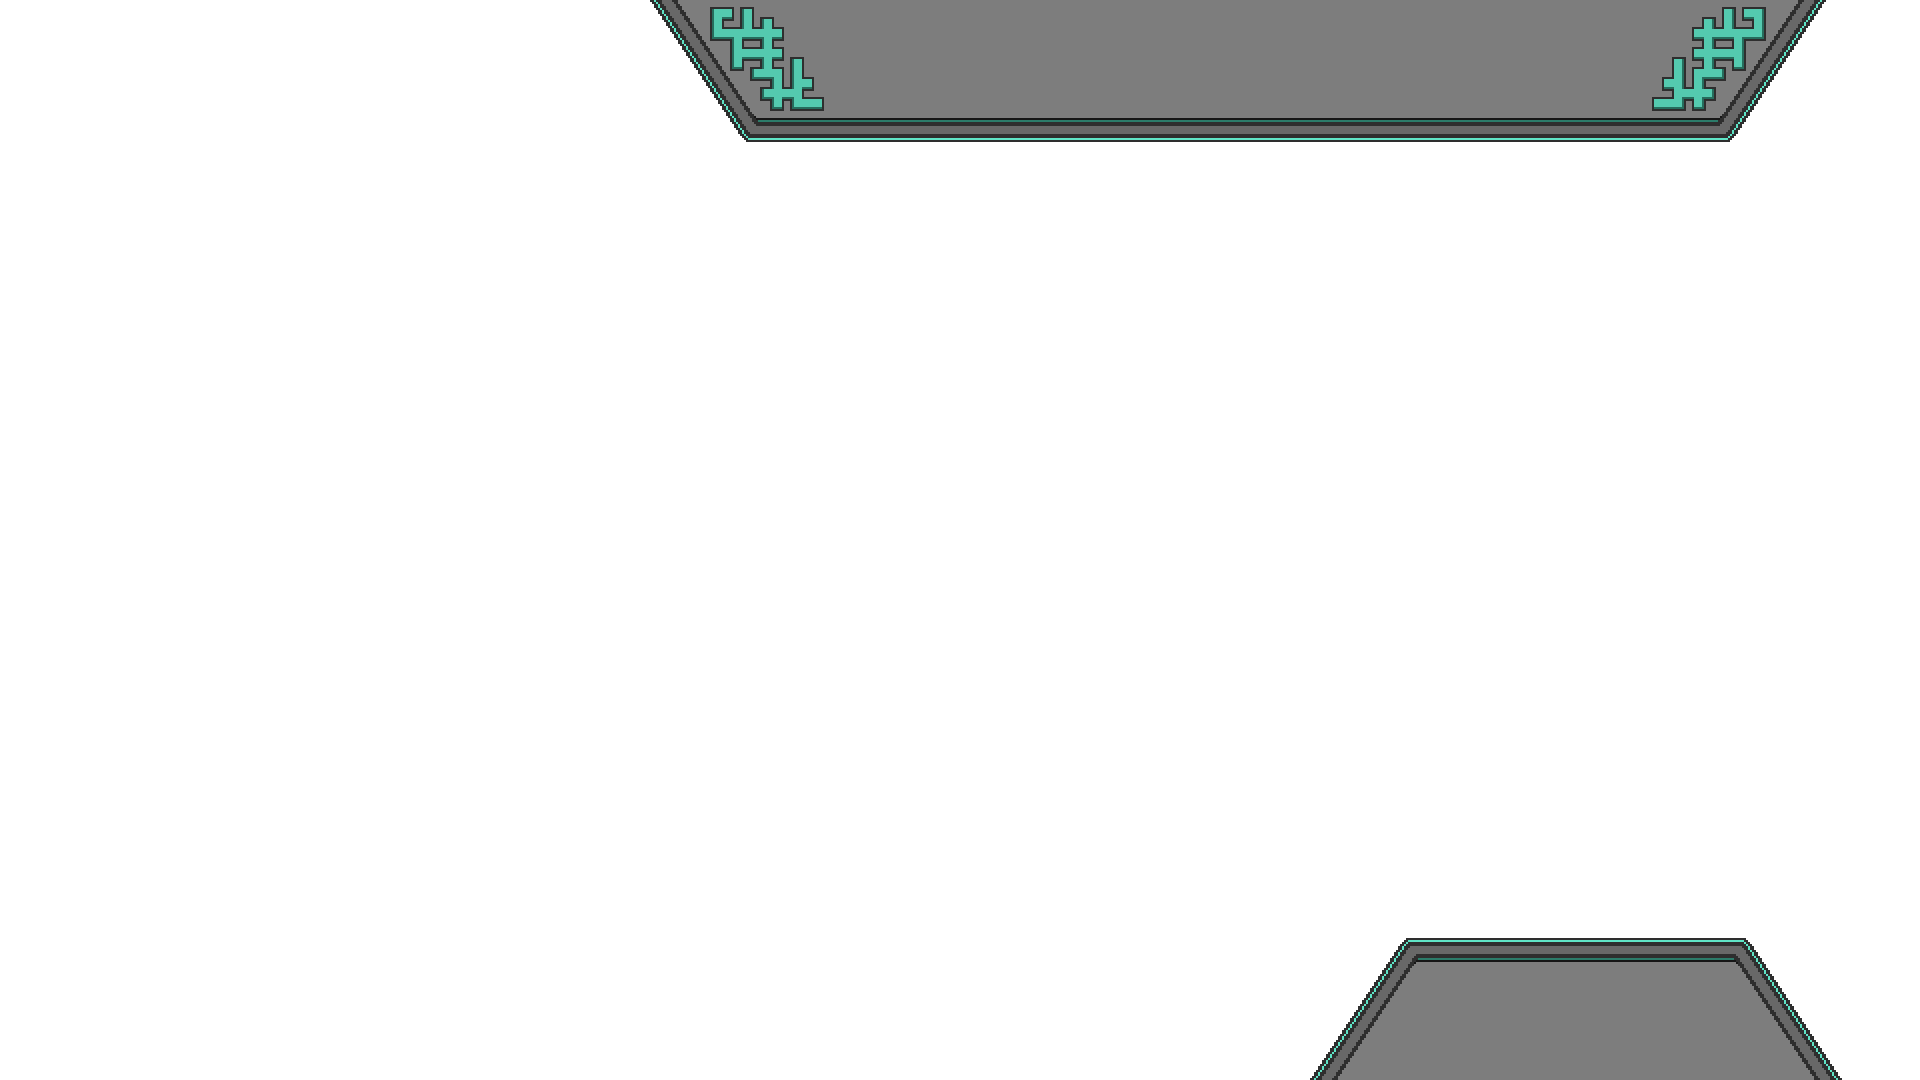
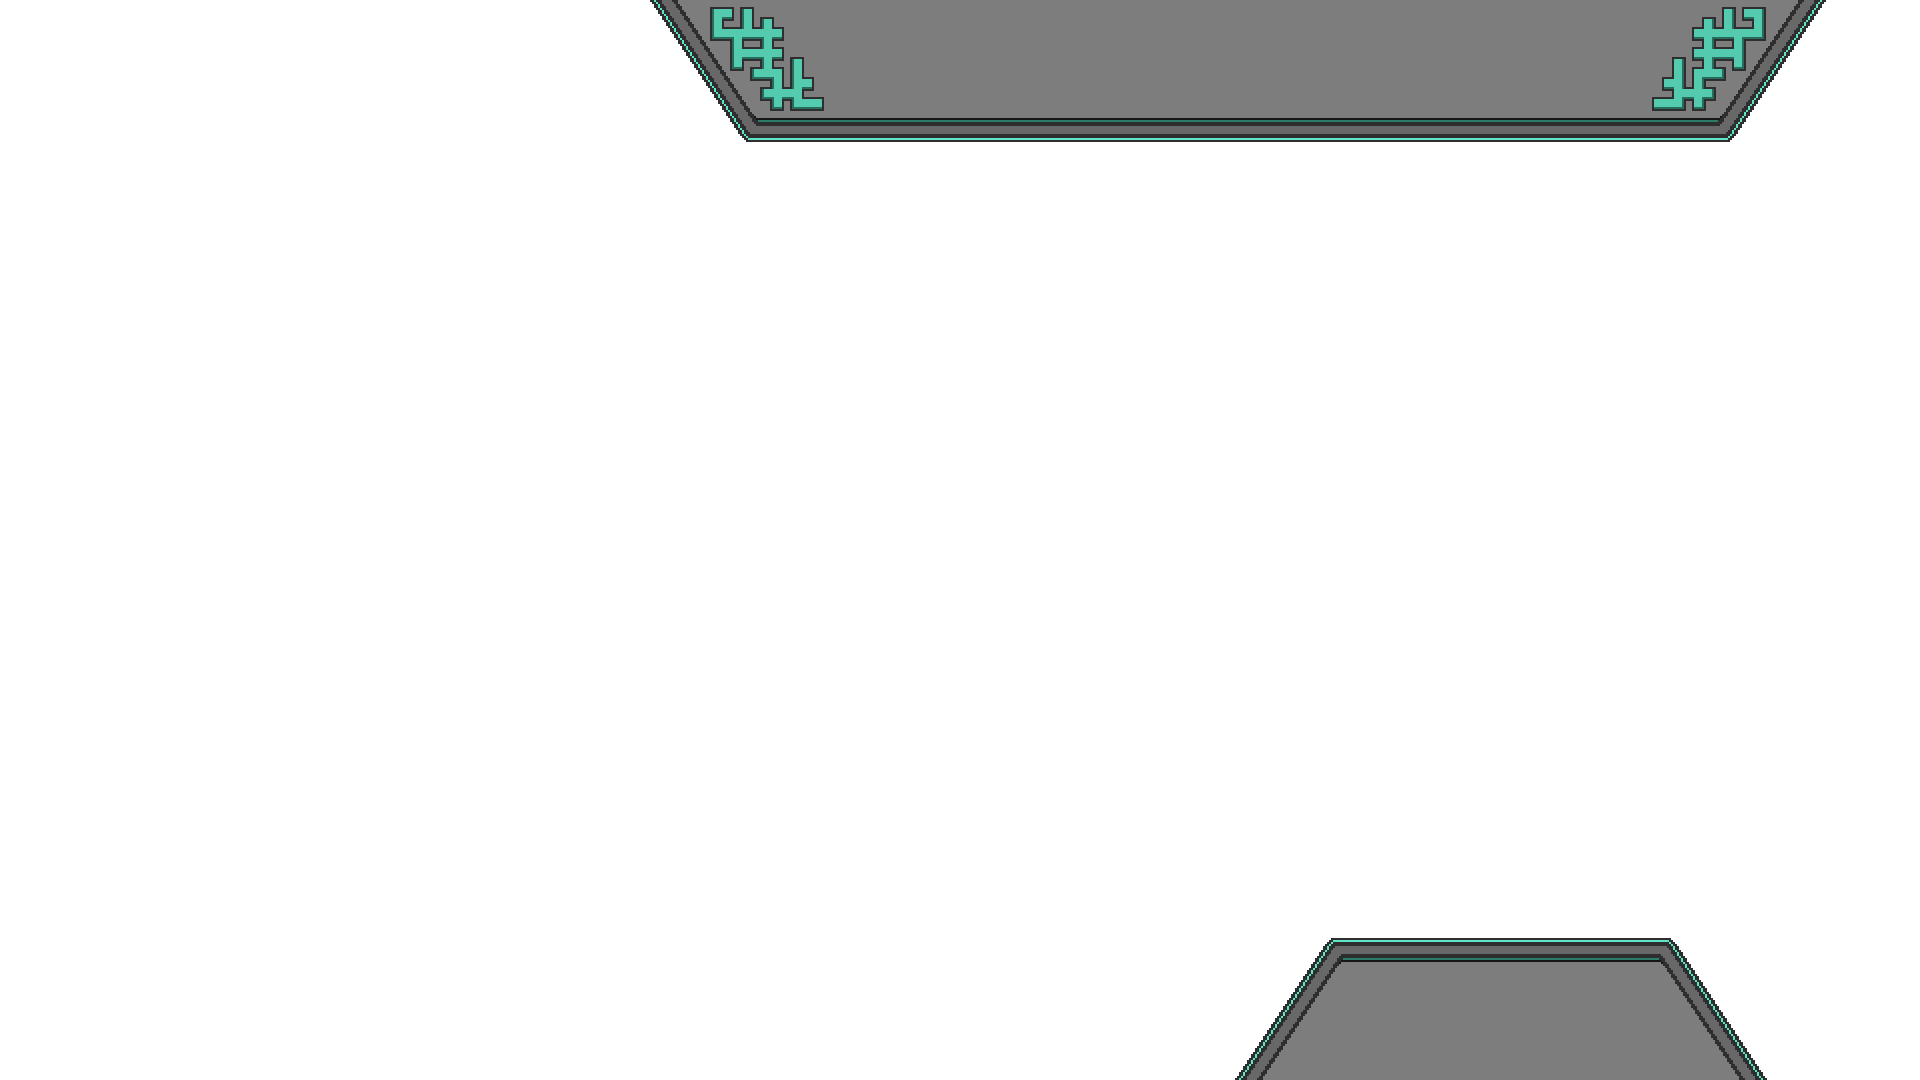
Proper GUI

Changed region(s): [[0.8438, 0.8556, 0.9688, 1.0], [0.625, 0.8556, 0.75, 1.0]]

diff --git a/Zettalith/Scripts/In Game/InGameHUD.cs b/Zettalith/Scripts/In Game/InGameHUD.cs
@@ -43,4 +43,41 @@ namespace Zettalith
             BonusHUD.Update(deltaTime);
         }
     }
+
+    class ManaBar
+    {
+        public Vector2 Position { get; set; }
+        public Renderer.SpriteScreen Bottom { get; set; }
+        public Renderer.SpriteScreen Top { get; set; }
+        public Renderer.SpriteScreen ManaBlock { get; set; }
+        public Renderer.Text ManaText { get; set; }
+        Texture2D ManaBlockTexture;
+
+        public ManaBar(Vector2 aPosition, int Colour)
+        {
+            Position = aPosition;
+
+            Texture2D tempBottomTexture = Load.Get<Texture2D>("ManaBottom");
+            Bottom = new Renderer.SpriteScreen(new Layer(MainLayer.GUI, 2), tempBottomTexture, new Rectangle((int)Position.X, (int)Position.Y - (int)(Ztuff.SizeResFactor * tempBottomTexture.Bounds.Height), (int)(Ztuff.SizeResFactor * tempBottomTexture.Bounds.Width), (int)(Ztuff.SizeResFactor * tempBottomTexture.Bounds.Height)));
+
+            Texture2D tempTopTexture = Load.Get<Texture2D>("ManaTop");
+            Top = new Renderer.SpriteScreen(new Layer(MainLayer.GUI, 2), tempTopTexture, new Rectangle((int)Position.X, (int)Position.Y, (int)(Ztuff.SizeResFactor * tempTopTexture.Bounds.Width), (int)(Ztuff.SizeResFactor * tempTopTexture.Bounds.Height)));
+
+            ManaBlockTexture = (Colour == 1 ? Load.Get<Texture2D>("Red mana") : (Colour == 2 ? Load.Get<Texture2D>("Green mana") : Load.Get<Texture2D>("Blue mana")));
+            ManaBlock = new Renderer.SpriteScreen(new Layer(MainLayer.GUI, 2), ManaBlockTexture, new Rectangle((int)Position.X, (int)Position.Y, (int)(Ztuff.SizeResFactor * ManaBlockTexture.Bounds.Width), (int)(Ztuff.SizeResFactor * ManaBlockTexture.Bounds.Height)));
+
+            ManaText = new Renderer.Text(new Layer(MainLayer.GUI, 3), Font.Default, "0", 3, 0, new Vector2(), Color.Black);
+            ManaText.Position = new Vector2(ManaBlock.Transform.X + ManaBlock.Transform.Width * 0.5f - ManaText.Font.MeasureString(ManaText.String).X * ManaText.Scale.X * 0.5f, Position.Y - Settings.GetResolution.Y * 0.02f);
+        }
+
+        public void Update(int Mana)
+        {
+            ManaBlock.Transform = new Rectangle((int)Position.X, Bottom.Transform.Y - (int)((int)(Ztuff.SizeResFactor * ManaBlockTexture.Bounds.Height) * Mana * 0.5f), (int)(Ztuff.SizeResFactor * ManaBlockTexture.Bounds.Width), (int)((int)(Ztuff.SizeResFactor * ManaBlockTexture.Bounds.Height) * Mana * 0.5f));
+
+            Top.Transform = new Rectangle((int)Position.X, ManaBlock.Transform.Y - Top.Transform.Height, (int)(Ztuff.SizeResFactor * Top.Texture.Bounds.Width), (int)(Ztuff.SizeResFactor * Top.Texture.Bounds.Height));
+
+            ManaText.String = new StringBuilder(Mana.ToString());
+            ManaText.Position = new Vector2(ManaBlock.Transform.X + ManaBlock.Transform.Width * 0.5f - ManaText.Font.MeasureString(ManaText.String).X * ManaText.Scale.X * 0.5f, Position.Y - Settings.GetResolution.Y * 0.05f);
+        }
+    }
 }

diff --git a/Zettalith/Scripts/In Game/ClientSideController.cs b/Zettalith/Scripts/In Game/ClientSideController.cs
@@ -50,8 +50,7 @@ namespace Zettalith
         InGameHUD hud;
         GUI.Collection collection, battleGUI, logisticsGUI, endGUI, perkGUI, buffGUI, bonusGUI;
 
-        Renderer.Text splash, essence;
-        Renderer.Text[] mana;
+        Renderer.Text splash;
         Renderer.Sprite ghost;
         Renderer.SpriteScreen dim, bottomPanel, topPanel, essencePanel;
 
@@ -79,13 +78,6 @@ namespace Zettalith
             string splashText = start ? "You Start" : "Opponent Starts";
             splash = new Renderer.Text(new Layer(MainLayer.GUI, 50), Font.Bold, splashText, SPLASHSIZE, 0, Settings.GetHalfResolution.ToVector2(), 0.5f * Font.Bold.MeasureString(splashText), defaultHighlightColor);
 
-            mana = new Renderer.Text[3];
-            mana[0] = new Renderer.Text(Layer.GUI, Font.Bold, "Red: " + InGameController.LocalMana.Red, 3.5f, 0, new Vector2(10, 70));
-            mana[1] = new Renderer.Text(Layer.GUI, Font.Bold, "Blue: " + InGameController.LocalMana.Blue, 3.5f, 0, new Vector2(10, 100)); 
-            mana[2] = new Renderer.Text(Layer.GUI, Font.Bold, "Green: " + InGameController.LocalMana.Green, 3.5f, 0, new Vector2(10, 130));
-            essence = new Renderer.Text(Layer.GUI, Font.Bold, "Essence: " + InGameController.LocalEssence, 3.5f, 0, new Vector2(10, 180));
-            UpdateManaGUI();
-
             collection = new GUI.Collection();
 
             Vector2 res = Settings.GetResolution.ToVector2();
@@ -98,7 +90,7 @@ namespace Zettalith
             endGUI = new GUI.Collection() { Origin = (res * 0.5f).ToPoint() };
 
             RendererController.GUI.Add(collection);
-            collection.Add(perkGUI, buffGUI, bonusGUI, battleGUI, logisticsGUI, endGUI, mana[0], mana[1], mana[2]);
+            collection.Add(perkGUI, buffGUI, bonusGUI, battleGUI, logisticsGUI, endGUI);
 
             hud = new InGameHUD(collection, perkGUI, buffGUI, bonusGUI, battleGUI, logisticsGUI, endGUI, controller, this, player);
 
@@ -182,8 +174,6 @@ namespace Zettalith
 
             SplashUpdate(deltaTime, gameState);
 
-            UpdateManaGUI();
-
             if (MoveableCamera)
             {
                 cameraMovement.Update(RendererController.Camera, Input.MousePosition, highlightedPiece == null && RendererFocus.OnArea(new Rectangle(MousePoint, Point.Zero), Layer.Default), deltaTime);
@@ -257,14 +247,6 @@ namespace Zettalith
             battleGUI.Active = false;
 
             // TODO Add logistics UI
-        }
-
-        void UpdateManaGUI()
-        {
-            mana[0].String = new StringBuilder("Red: " + InGameController.LocalMana.Red);
-            mana[1].String = new StringBuilder("Blue: " + InGameController.LocalMana.Blue);
-            mana[2].String = new StringBuilder("Green: " + InGameController.LocalMana.Green);
-            essence.String = new StringBuilder("Essence: " + InGameController.LocalEssence);
         }
 
         public void CloseSetup()

diff --git a/Zettalith/Scripts/In Game/LogisticsHUD.cs b/Zettalith/Scripts/In Game/LogisticsHUD.cs
@@ -16,9 +16,10 @@ namespace Zettalith
         List<(Renderer.SpriteScreen renderer, InGamePiece piece, RendererFocus focus)> handPieces;
 
         Renderer.SpriteScreen panels;
+        Renderer.Text essence;
         GUI.Button bPerks, bBuffs, bBonuses;
 
-        Point handStart, handEnd;
+        ManaBar[] Bars;
 
         public LogisticsHUD(GUI.Collection collection, InGameController igc, PlayerLocal p, ClientSideController csc) : base(igc, p, csc)
         {
@@ -37,22 +38,32 @@ namespace Zettalith
 
             bBonuses = new GUI.Button(new Layer(MainLayer.GUI, 2), new Rectangle((int)(Settings.GetResolution.X * 0.65f), (int)(Settings.GetResolution.Y * 0.005f), (int)(Ztuff.SizeResFactor * PerkButtonTexture.Bounds.Width), (int)(Ztuff.SizeResFactor * PerkButtonTexture.Bounds.Height)), Load.Get<Texture2D>("Bonus Shop Button")) { ScaleEffect = true };
 
+            essence = new Renderer.Text(new Layer(MainLayer.GUI, 2), Font.Italic, InGameController.LocalEssence + "e", 5, 0, new Vector2(Settings.GetResolution.X * 0.83f, Settings.GetResolution.Y * 0.006f), new Vector2(), Color.Blue);
+            essence.Position = new Vector2(essence.Position.X - essence.Font.MeasureString(essence.String).X * essence.Scale.X, essence.Position.Y);
 
-
-            handStart = new Point((int)(Settings.GetResolution.X * 0.13f), (int)(Settings.GetResolution.Y * 0.77f));
-            handEnd = new Point((int)(Settings.GetResolution.X * 0.6f), (int)(Settings.GetResolution.Y * 0.77f));
+            Bars = new ManaBar[3];
+            for (int i = 0; i < Bars.Length; ++i)
+            {
+                Bars[i] = new ManaBar(new Vector2(Settings.GetResolution.X * (0.71f + 0.05f * i), Settings.GetResolution.Y), i + 1);
+                collection.Add(Bars[i].Top, Bars[i].Bottom, Bars[i].ManaText, Bars[i].ManaBlock);
+            }
 
             GUI.Button button = new GUI.Button(Layer.GUI, new Rectangle(10, 10, 160, 60));
             button.AddText("Draw Piece", 3, true, Color.Black, Font.Bold);
             button.OnClick += clientSideController.DrawPieceFromDeck;
 
-            collection.Add(panels, bPerks, bBuffs, bBonuses, button);
+            collection.Add(panels, bPerks, bBuffs, bBonuses, button, essence);
             collection.Active = false;
         }
 
         public void Update(float deltaTime)
         {
+            essence.String = new StringBuilder(InGameController.LocalEssence + "e");
+            essence.Position = new Vector2(Settings.GetResolution.X * 0.83f - essence.Font.MeasureString(essence.String).X * essence.Scale.X, essence.Position.Y);
 
+            Bars[0].Update(InGameController.LocalMana.Red);
+            Bars[1].Update(InGameController.LocalMana.Green);
+            Bars[2].Update(InGameController.LocalMana.Blue);
         }
     }
 }

diff --git a/Zettalith/Scripts/In Game/BattleHUD.cs b/Zettalith/Scripts/In Game/BattleHUD.cs
@@ -16,10 +16,12 @@ namespace Zettalith
         List<(Renderer.SpriteScreen renderer, InGamePiece piece, RendererFocus focus)> handPieces;
 
         Renderer.SpriteScreen panels;
-        Renderer.Text essence, redMana;
+        Renderer.Text essence;
         GUI.Button bEndTurn;
 
         Point handStart, handEnd;
+
+        ManaBar[] Bars;
 
         public BattleHUD(GUI.Collection collection, InGameController igc, PlayerLocal p, ClientSideController csc) : base(igc, p, csc)
         {
@@ -46,6 +48,13 @@ namespace Zettalith
             essence = new Renderer.Text(new Layer(MainLayer.GUI, 2), Font.Italic, InGameController.LocalEssence + "e", 5, 0, new Vector2(Settings.GetResolution.X * 0.92f, Settings.GetResolution.Y * 0.005f), new Vector2(), Color.Blue);
             essence.Position = new Vector2(essence.Position.X - essence.Font.MeasureString(essence.String).X * essence.Scale.X, essence.Position.Y);
 
+            Bars = new ManaBar[3];
+            for (int i = 0; i < Bars.Length; ++i)
+            {
+                Bars[i] = new ManaBar(new Vector2(Settings.GetResolution.X * (0.71f + 0.05f * i), Settings.GetResolution.Y), i + 1);
+                collection.Add(Bars[i].Top, Bars[i].Bottom, Bars[i].ManaText, Bars[i].ManaBlock);
+            }
+
             GUI.Button button = new GUI.Button(Layer.GUI, new Rectangle(10, 10, 160, 60));
             button.AddText("Draw Piece", 3, true, Color.Black, Font.Bold);
             button.OnClick += clientSideController.DrawPieceFromDeck;
@@ -58,6 +67,10 @@ namespace Zettalith
         {
             essence.String = new StringBuilder(InGameController.LocalEssence + "e");
             essence.Position = new Vector2(Settings.GetResolution.X * 0.92f - essence.Font.MeasureString(essence.String).X * essence.Scale.X, essence.Position.Y);
+
+            Bars[0].Update(InGameController.LocalMana.Red);
+            Bars[1].Update(InGameController.LocalMana.Green);
+            Bars[2].Update(InGameController.LocalMana.Blue);
         }
 
         public void UpdateHand(InGamePiece removePiece, ref InGamePiece dragOutPiece)
